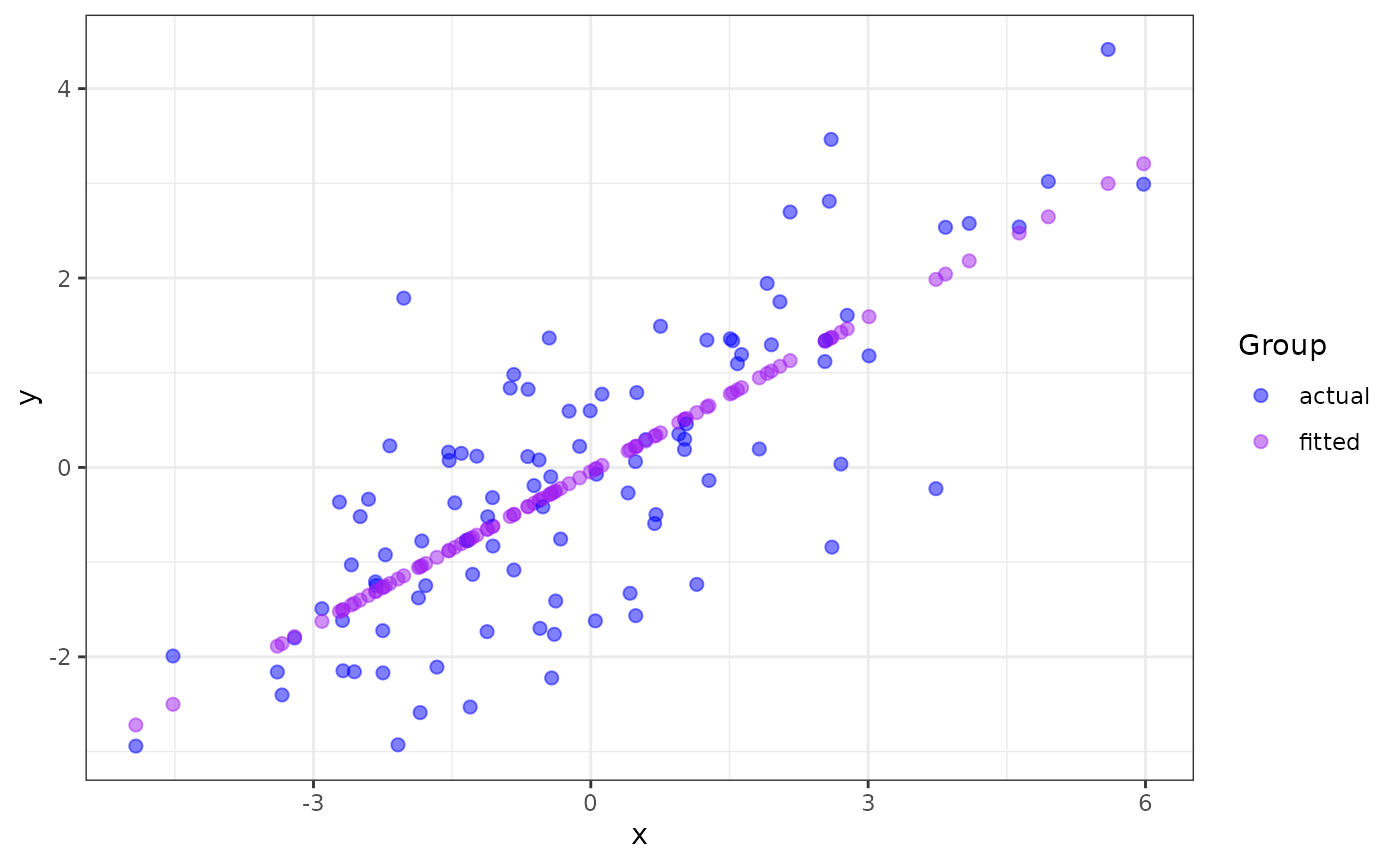
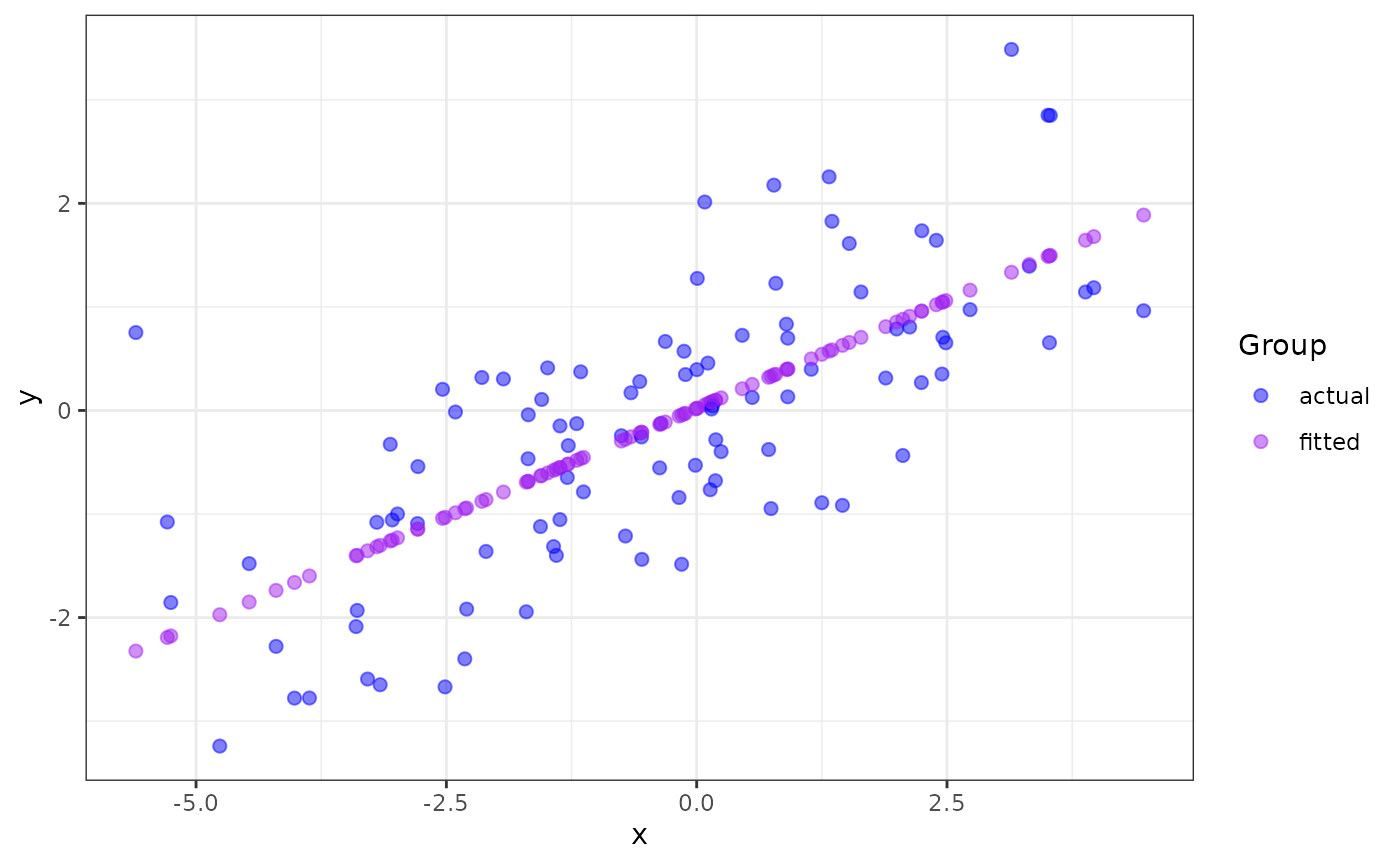
Built site for ggmatplot: 0.1.0@d9af7f7

diff --git a/articles/ggmatplot.html b/articles/ggmatplot.html
@@ -101,7 +101,7 @@
 <span class="va">x</span> <span class="op">&lt;-</span> <span class="fu"><a href="https://rdrr.io/r/base/c.html">c</a></span><span class="op">(</span><span class="fu"><a href="https://rdrr.io/r/stats/Normal.html">rnorm</a></span><span class="op">(</span><span class="fl">100</span>, sd <span class="op">=</span> <span class="fl">2</span><span class="op">)</span><span class="op">)</span>
 
 <span class="fu"><a href="https://rdrr.io/r/utils/head.html">head</a></span><span class="op">(</span><span class="va">x</span><span class="op">)</span>
-<span class="co">#&gt; [1]  0.4832008 -2.9084740 -2.4046337  2.7738027 -2.1737957  1.2556798</span>
+<span class="co">#&gt; [1]  1.4555832 -2.1455031  0.7423875  1.3222697 -2.5382066  0.1116947</span>
 
 <span class="co"># matrix z</span>
 <span class="va">y</span> <span class="op">&lt;-</span> <span class="va">x</span> <span class="op">*</span> <span class="fl">0.5</span> <span class="op">+</span> <span class="fu"><a href="https://rdrr.io/r/stats/Normal.html">rnorm</a></span><span class="op">(</span><span class="fl">100</span>, sd <span class="op">=</span> <span class="fl">1</span><span class="op">)</span>
@@ -110,13 +110,13 @@
            fitted <span class="op">=</span> <span class="va">fit.y</span><span class="op">)</span>
 
 <span class="fu"><a href="https://rdrr.io/r/utils/head.html">head</a></span><span class="op">(</span><span class="va">z</span><span class="op">)</span>
-<span class="co">#&gt;        actual     fitted</span>
-<span class="co">#&gt; 1  0.06180734  0.2185760</span>
-<span class="co">#&gt; 2 -1.49130326 -1.6251791</span>
-<span class="co">#&gt; 3 -0.33577680 -1.3512855</span>
-<span class="co">#&gt; 4  1.60601531  1.4637747</span>
-<span class="co">#&gt; 5  0.22807288 -1.2257991</span>
-<span class="co">#&gt; 6  1.34490615  0.6385049</span></code></pre></div>
+<span class="co">#&gt;       actual      fitted</span>
+<span class="co">#&gt; 1 -0.9163131  0.62846768</span>
+<span class="co">#&gt; 2  0.3184536 -0.87794993</span>
+<span class="co">#&gt; 3 -0.9476494  0.33012147</span>
+<span class="co">#&gt; 4  2.2562102  0.57269958</span>
+<span class="co">#&gt; 5  0.2041262 -1.04222684</span>
+<span class="co">#&gt; 6  0.4572378  0.06628808</span></code></pre></div>
 <p><code>ggmatplot</code> plots vector <code>x</code> against each column of matrix <code>z</code> using the default <code>plot_type = "point"</code>. This will be represented on the resulting plot as two groups, identified using different shapes and colors.</p>
 <div class="sourceCode" id="cb2"><pre class="downlit sourceCode r">
 <code class="sourceCode R"><span class="kw"><a href="https://rdrr.io/r/base/library.html">library</a></span><span class="op">(</span><span class="va"><a href="https://github.com/xuan-liang/ggmatplot">ggmatplot</a></span><span class="op">)</span>
